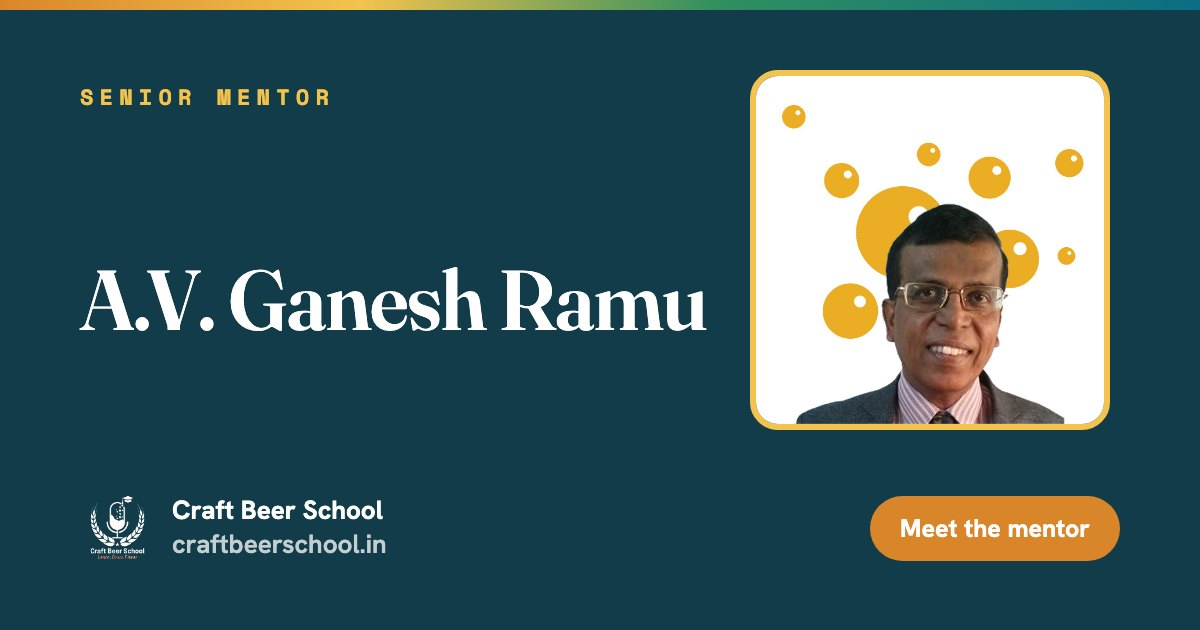
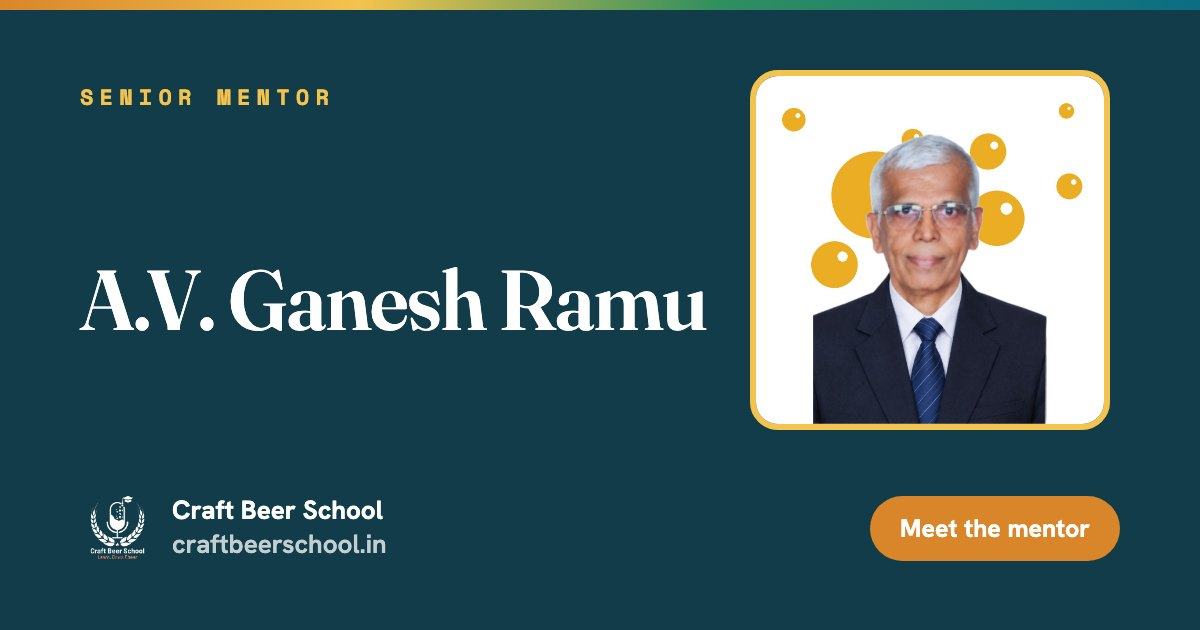
feat: Ganesh teaches Advanced Brewing Science; new portrait from his studio photo

Changed region(s): [[0.6475, 0.181, 0.925, 0.6937], [0.6475, 0.1508, 0.6783, 0.2111], [0.8633, 0.1508, 0.8942, 0.181]]

diff --git a/mr/mentor-anu-rao.html b/mr/mentor-anu-rao.html
@@ -84,7 +84,7 @@
 <div class="wrap">
 <div class="sec-head"><span class="eyebrow">तुमचे मेंटर</span><h2>बाकीच्या टीमला भेटा.</h2></div>
 <div class="grid-3">
-<article class="card mentor-card reveal"><a aria-hidden="true" href="../mentor-ganesh-ramu.html" tabindex="-1"><img alt="A.V. Ganesh Ramu" class="mentor-img" loading="lazy" src="../assets/ganesh-ramu-portrait.jpg"/></a><div class="card-body"><span class="cat">Senior Mentor · Master Brewer</span><h3><a href="../mentor-ganesh-ramu.html">A.V. Ganesh Ramu</a></h3><p>आमचे सर्वात ज्येष्ठ मेंटॉर. Institute of Brewing and Distilling चे Master Brewer, ज्यांना जर्मनी, यूके, न्यूझीलंड, सिंगापूर आणि भारतात ब्रूइंगचा 38 वर्षांचा अनुभव आहे.</p><div style="display:flex;flex-wrap:wrap;gap:.4rem 1.4rem"><a class="link-arrow" href="../mentor-ganesh-ramu.html">पूर्ण प्रोफाइल</a></div></div></article>
+<article class="card mentor-card reveal"><a aria-hidden="true" href="../mentor-ganesh-ramu.html" tabindex="-1"><img alt="A.V. Ganesh Ramu" class="mentor-img" loading="lazy" src="../assets/ganesh-ramu-portrait-2.jpg"/></a><div class="card-body"><span class="cat">Senior Mentor · Master Brewer</span><h3><a href="../mentor-ganesh-ramu.html">A.V. Ganesh Ramu</a></h3><p>आमचे सर्वात ज्येष्ठ मेंटॉर. Institute of Brewing and Distilling चे Master Brewer, ज्यांना जर्मनी, यूके, न्यूझीलंड, सिंगापूर आणि भारतात ब्रूइंगचा 38 वर्षांचा अनुभव आहे.</p><div style="display:flex;flex-wrap:wrap;gap:.4rem 1.4rem"><a class="link-arrow" href="../mentor-ganesh-ramu.html">पूर्ण प्रोफाइल</a></div></div></article>
 <article class="card mentor-card reveal"><a aria-hidden="true" href="mentor-ankur-napa.html" tabindex="-1"><img alt="Ankur Napa" class="mentor-img" loading="lazy" src="../assets/team3.jpg"/></a><div class="card-body"><span class="cat">Course Instructor · Master Brewer</span><h3><a href="mentor-ankur-napa.html">Ankur Napa</a></h3><p>United Breweries, SABMiller आणि AB InBev मध्ये R&amp;D मध्ये काम केलेले मास्टर ब्रुअर, ज्यांनी पुढे डेटा सायंटिस्ट म्हणून AB InBev च्या जागतिक बिझनेस युनिट्ससाठी AI आणि GenAI उभं केलं.</p><div style="display:flex;flex-wrap:wrap;gap:.4rem 1.4rem"><a class="link-arrow" href="mentor-ankur-napa.html">पूर्ण प्रोफाइल</a><a class="link-arrow" href="https://www.linkedin.com/in/ankur-napa/" rel="noopener" target="_blank">LinkedIn वर Ankur</a></div></div></article>
 <article class="card mentor-card reveal"><a aria-hidden="true" href="mentor-chatty-girija.html" tabindex="-1"><img alt="Chatty Girija" class="mentor-img" loading="lazy" src="../assets/team5.jpg"/></a><div class="card-body"><span class="cat">Beer Podcaster · Creative Strategist</span><h3><a href="mentor-chatty-girija.html">Chatty Girija</a></h3><p>जाहिरात क्षेत्रात 30+ वर्षं आणि क्राफ्ट बिअरची मनापासून आवड. प्रत्येक सेशनमध्ये बिअरच्या गोष्टी, ब्रँडिंग आणि व्यवसाय घेऊन येतात.</p><div style="display:flex;flex-wrap:wrap;gap:.4rem 1.4rem"><a class="link-arrow" href="mentor-chatty-girija.html">पूर्ण प्रोफाइल</a></div></div></article>
 <article class="card mentor-card reveal"><a aria-hidden="true" href="mentor-rahul-baliyan.html" tabindex="-1"><img alt="Rahul Baliyan" class="mentor-img" loading="lazy" src="../assets/rahul-baliyan-portrait.jpg"/></a><div class="card-body"><span class="cat">ब्रूइंग सायन्स इन्स्ट्रक्टर · दिल्ली आणि उत्तर भारत</span><h3><a href="mentor-rahul-baliyan.html">Rahul Baliyan</a></h3><p>Weihenstephan, TU Munich इथे प्रशिक्षण घेतलेले जर्मन-शैलीचे ब्रूमास्टर, फूड बायोटेक्नॉलॉजीमध्ये M.Tech. JW Marriott Chandigarh आणि भारतातील पहिली जर्मन ब्रुअरी Rockmann Beer Island साठी दहा वर्षं कन्सल्टंट ब्रूमास्टर, स्टार्ट-अप आणि एक्साइजपासून यील्ड आणि सोर्सिंगपर्यंत.</p><div style="display:flex;flex-wrap:wrap;gap:.4rem 1.4rem"><a class="link-arrow" href="mentor-rahul-baliyan.html">पूर्ण प्रोफाइल</a><a class="link-arrow" href="https://www.linkedin.com/in/rahul-baliyan-m-tech-40630a6b/" rel="noopener" target="_blank">LinkedIn वर Rahul</a></div></div></article>

diff --git a/mr/mentor-chatty-girija.html b/mr/mentor-chatty-girija.html
@@ -85,7 +85,7 @@
 <div class="wrap">
 <div class="sec-head"><span class="eyebrow">तुमचे मेंटर</span><h2>बाकीच्या टीमला भेटा.</h2></div>
 <div class="grid-3">
-<article class="card mentor-card reveal"><a aria-hidden="true" href="../mentor-ganesh-ramu.html" tabindex="-1"><img alt="A.V. Ganesh Ramu" class="mentor-img" loading="lazy" src="../assets/ganesh-ramu-portrait.jpg"/></a><div class="card-body"><span class="cat">Senior Mentor · Master Brewer</span><h3><a href="../mentor-ganesh-ramu.html">A.V. Ganesh Ramu</a></h3><p>आमचे सर्वात ज्येष्ठ मेंटॉर. Institute of Brewing and Distilling चे Master Brewer, ज्यांना जर्मनी, यूके, न्यूझीलंड, सिंगापूर आणि भारतात ब्रूइंगचा 38 वर्षांचा अनुभव आहे.</p><div style="display:flex;flex-wrap:wrap;gap:.4rem 1.4rem"><a class="link-arrow" href="../mentor-ganesh-ramu.html">पूर्ण प्रोफाइल</a></div></div></article>
+<article class="card mentor-card reveal"><a aria-hidden="true" href="../mentor-ganesh-ramu.html" tabindex="-1"><img alt="A.V. Ganesh Ramu" class="mentor-img" loading="lazy" src="../assets/ganesh-ramu-portrait-2.jpg"/></a><div class="card-body"><span class="cat">Senior Mentor · Master Brewer</span><h3><a href="../mentor-ganesh-ramu.html">A.V. Ganesh Ramu</a></h3><p>आमचे सर्वात ज्येष्ठ मेंटॉर. Institute of Brewing and Distilling चे Master Brewer, ज्यांना जर्मनी, यूके, न्यूझीलंड, सिंगापूर आणि भारतात ब्रूइंगचा 38 वर्षांचा अनुभव आहे.</p><div style="display:flex;flex-wrap:wrap;gap:.4rem 1.4rem"><a class="link-arrow" href="../mentor-ganesh-ramu.html">पूर्ण प्रोफाइल</a></div></div></article>
 <article class="card mentor-card reveal"><a aria-hidden="true" href="mentor-ankur-napa.html" tabindex="-1"><img alt="Ankur Napa" class="mentor-img" loading="lazy" src="../assets/team3.jpg"/></a><div class="card-body"><span class="cat">Course Instructor · Master Brewer</span><h3><a href="mentor-ankur-napa.html">Ankur Napa</a></h3><p>United Breweries, SABMiller आणि AB InBev मध्ये R&amp;D मध्ये काम केलेले मास्टर ब्रुअर, ज्यांनी पुढे डेटा सायंटिस्ट म्हणून AB InBev च्या जागतिक बिझनेस युनिट्ससाठी AI आणि GenAI उभं केलं.</p><div style="display:flex;flex-wrap:wrap;gap:.4rem 1.4rem"><a class="link-arrow" href="mentor-ankur-napa.html">पूर्ण प्रोफाइल</a><a class="link-arrow" href="https://www.linkedin.com/in/ankur-napa/" rel="noopener" target="_blank">LinkedIn वर Ankur</a></div></div></article>
 <article class="card mentor-card reveal"><a aria-hidden="true" href="mentor-anu-rao.html" tabindex="-1"><img alt="Anu Rao" class="mentor-img" loading="lazy" src="../assets/team4.jpg"/></a><div class="card-body"><span class="cat">स्ट्रॅटेजी आणि ऑपरेशन्स प्रमुख</span><h3><a href="mentor-anu-rao.html">Anu Rao</a></h3><p>सामाजिक जबाबदारी, शिक्षण आणि ऑपरेशन्समध्ये 15+ वर्षं, प्रत्येक बॅच धान्यापासून ग्लासपर्यंत सुरळीत चालेल याची काळजी घेतात.</p><div style="display:flex;flex-wrap:wrap;gap:.4rem 1.4rem"><a class="link-arrow" href="mentor-anu-rao.html">पूर्ण प्रोफाइल</a></div></div></article>
 <article class="card mentor-card reveal"><a aria-hidden="true" href="mentor-rahul-baliyan.html" tabindex="-1"><img alt="Rahul Baliyan" class="mentor-img" loading="lazy" src="../assets/rahul-baliyan-portrait.jpg"/></a><div class="card-body"><span class="cat">ब्रूइंग सायन्स इन्स्ट्रक्टर · दिल्ली आणि उत्तर भारत</span><h3><a href="mentor-rahul-baliyan.html">Rahul Baliyan</a></h3><p>Weihenstephan, TU Munich इथे प्रशिक्षण घेतलेले जर्मन-शैलीचे ब्रूमास्टर, फूड बायोटेक्नॉलॉजीमध्ये M.Tech. JW Marriott Chandigarh आणि भारतातील पहिली जर्मन ब्रुअरी Rockmann Beer Island साठी दहा वर्षं कन्सल्टंट ब्रूमास्टर, स्टार्ट-अप आणि एक्साइजपासून यील्ड आणि सोर्सिंगपर्यंत.</p><div style="display:flex;flex-wrap:wrap;gap:.4rem 1.4rem"><a class="link-arrow" href="mentor-rahul-baliyan.html">पूर्ण प्रोफाइल</a><a class="link-arrow" href="https://www.linkedin.com/in/rahul-baliyan-m-tech-40630a6b/" rel="noopener" target="_blank">LinkedIn वर Rahul</a></div></div></article>

diff --git a/kn/mentor-anu-rao.html b/kn/mentor-anu-rao.html
@@ -84,7 +84,7 @@
 <div class="wrap">
 <div class="sec-head"><span class="eyebrow">ನಿಮ್ಮ ಮೆಂಟರ್ಗಳು</span><h2>ತಂಡದ ಉಳಿದವರನ್ನು ಭೇಟಿಯಾಗಿ.</h2></div>
 <div class="grid-3">
-<article class="card mentor-card reveal"><a aria-hidden="true" href="../mentor-ganesh-ramu.html" tabindex="-1"><img alt="A.V. Ganesh Ramu" class="mentor-img" loading="lazy" src="../assets/ganesh-ramu-portrait.jpg"/></a><div class="card-body"><span class="cat">Senior Mentor · Master Brewer</span><h3><a href="../mentor-ganesh-ramu.html">A.V. Ganesh Ramu</a></h3><p>ನಮ್ಮ ಅತ್ಯಂತ ಹಿರಿಯ ಮೆಂಟರ್. Institute of Brewing and Distilling ನಿಂದ Master Brewer, ಜರ್ಮನಿ, ಯುಕೆ, ನ್ಯೂಜಿಲೆಂಡ್, ಸಿಂಗಾಪುರ ಮತ್ತು ಭಾರತದಲ್ಲಿ ಬ್ರೂಯಿಂಗ್ನಲ್ಲಿ 38 ವರ್ಷಗಳ ಅನುಭವ.</p><div style="display:flex;flex-wrap:wrap;gap:.4rem 1.4rem"><a class="link-arrow" href="../mentor-ganesh-ramu.html">ಪೂರ್ಣ ಪ್ರೊಫೈಲ್</a></div></div></article>
+<article class="card mentor-card reveal"><a aria-hidden="true" href="../mentor-ganesh-ramu.html" tabindex="-1"><img alt="A.V. Ganesh Ramu" class="mentor-img" loading="lazy" src="../assets/ganesh-ramu-portrait-2.jpg"/></a><div class="card-body"><span class="cat">Senior Mentor · Master Brewer</span><h3><a href="../mentor-ganesh-ramu.html">A.V. Ganesh Ramu</a></h3><p>ನಮ್ಮ ಅತ್ಯಂತ ಹಿರಿಯ ಮೆಂಟರ್. Institute of Brewing and Distilling ನಿಂದ Master Brewer, ಜರ್ಮನಿ, ಯುಕೆ, ನ್ಯೂಜಿಲೆಂಡ್, ಸಿಂಗಾಪುರ ಮತ್ತು ಭಾರತದಲ್ಲಿ ಬ್ರೂಯಿಂಗ್ನಲ್ಲಿ 38 ವರ್ಷಗಳ ಅನುಭವ.</p><div style="display:flex;flex-wrap:wrap;gap:.4rem 1.4rem"><a class="link-arrow" href="../mentor-ganesh-ramu.html">ಪೂರ್ಣ ಪ್ರೊಫೈಲ್</a></div></div></article>
 <article class="card mentor-card reveal"><a aria-hidden="true" href="mentor-ankur-napa.html" tabindex="-1"><img alt="Ankur Napa" class="mentor-img" loading="lazy" src="../assets/team3.jpg"/></a><div class="card-body"><span class="cat">ಕೋರ್ಸ್ ಬೋಧಕ · Master Brewer</span><h3><a href="mentor-ankur-napa.html">Ankur Napa</a></h3><p>United Breweries, SABMiller ಮತ್ತು AB InBev ನ R&amp;D ಯಲ್ಲಿ ಕೆಲಸ ಮಾಡಿದ Master Brewer, ನಂತರ ಡೇಟಾ ಸೈಂಟಿಸ್ಟ್ ಆಗಿ AB InBev ನ ಜಾಗತಿಕ ವ್ಯವಹಾರ ಘಟಕಗಳಿಗಾಗಿ AI ಮತ್ತು GenAI ಕಟ್ಟಿದವರು.</p><div style="display:flex;flex-wrap:wrap;gap:.4rem 1.4rem"><a class="link-arrow" href="mentor-ankur-napa.html">ಪೂರ್ಣ ಪ್ರೊಫೈಲ್</a><a class="link-arrow" href="https://www.linkedin.com/in/ankur-napa/" rel="noopener" target="_blank">LinkedIn ನಲ್ಲಿ Ankur</a></div></div></article>
 <article class="card mentor-card reveal"><a aria-hidden="true" href="mentor-chatty-girija.html" tabindex="-1"><img alt="Chatty Girija" class="mentor-img" loading="lazy" src="../assets/team5.jpg"/></a><div class="card-body"><span class="cat">ಬಿಯರ್ podcaster · ಸೃಜನಾತ್ಮಕ ತಂತ್ರಜ್ಞೆ</span><h3><a href="mentor-chatty-girija.html">Chatty Girija</a></h3><p>ಜಾಹೀರಾತು ಕ್ಷೇತ್ರದಲ್ಲಿ 30+ ವರ್ಷಗಳು ಮತ್ತು ಕ್ರಾಫ್ಟ್ ಬಿಯರ್ ಬಗ್ಗೆ ಆಳವಾದ ಒಲವು. ಪ್ರತಿ ಸೆಷನ್ಗೂ ಬಿಯರ್ನ ಕಥೆಗಳು, ಬ್ರ್ಯಾಂಡಿಂಗ್ ಮತ್ತು ವ್ಯವಹಾರವನ್ನು ತರುತ್ತಾರೆ.</p><div style="display:flex;flex-wrap:wrap;gap:.4rem 1.4rem"><a class="link-arrow" href="mentor-chatty-girija.html">ಪೂರ್ಣ ಪ್ರೊಫೈಲ್</a></div></div></article>
 <article class="card mentor-card reveal"><a aria-hidden="true" href="mentor-rahul-baliyan.html" tabindex="-1"><img alt="Rahul Baliyan" class="mentor-img" loading="lazy" src="../assets/rahul-baliyan-portrait.jpg"/></a><div class="card-body"><span class="cat">Brewing Science ಬೋಧಕರು · ದೆಹಲಿ &amp; ಉತ್ತರ ಭಾರತ</span><h3><a href="mentor-rahul-baliyan.html">Rahul Baliyan</a></h3><p>TU Munich ನ Weihenstephan ನಲ್ಲಿ ತರಬೇತಿ ಪಡೆದ ಜರ್ಮನ್ ಶೈಲಿಯ Brewmaster, ಆಹಾರ ಜೈವಿಕ ತಂತ್ರಜ್ಞಾನದಲ್ಲಿ M.Tech. ಪದವಿ. JW Marriott Chandigarh ಮತ್ತು ಭಾರತದ ಮೊದಲ ಜರ್ಮನ್ ಬ್ರೂವರಿ Rockmann Beer Island ಗೆ Consultant Brew Master ಆಗಿ ಒಂದು ದಶಕ, ಆರಂಭ ಮತ್ತು ಅಬಕಾರಿಯಿಂದ ಇಳುವರಿ ಮತ್ತು ಖರೀದಿಯವರೆಗೆ.</p><div style="display:flex;flex-wrap:wrap;gap:.4rem 1.4rem"><a class="link-arrow" href="mentor-rahul-baliyan.html">ಪೂರ್ಣ ಪ್ರೊಫೈಲ್</a><a class="link-arrow" href="https://www.linkedin.com/in/rahul-baliyan-m-tech-40630a6b/" rel="noopener" target="_blank">LinkedIn ನಲ್ಲಿ Rahul</a></div></div></article>

diff --git a/te/mentor-anu-rao.html b/te/mentor-anu-rao.html
@@ -84,7 +84,7 @@
 <div class="wrap">
 <div class="sec-head"><span class="eyebrow">మీ మెంటర్లు</span><h2>మిగతా టీమ్ను కలవండి.</h2></div>
 <div class="grid-3">
-<article class="card mentor-card reveal"><a aria-hidden="true" href="../mentor-ganesh-ramu.html" tabindex="-1"><img alt="A.V. Ganesh Ramu" class="mentor-img" loading="lazy" src="../assets/ganesh-ramu-portrait.jpg"/></a><div class="card-body"><span class="cat">Senior Mentor · Master Brewer</span><h3><a href="../mentor-ganesh-ramu.html">A.V. Ganesh Ramu</a></h3><p>మా అత్యంత సీనియర్ మెంటార్. Institute of Brewing and Distilling నుంచి Master Brewer, జర్మనీ, యూకే, న్యూజిలాండ్, సింగపూర్, భారతదేశాల్లో బ్రూయింగ్లో 38 ఏళ్ళ అనుభవం ఉంది.</p><div style="display:flex;flex-wrap:wrap;gap:.4rem 1.4rem"><a class="link-arrow" href="../mentor-ganesh-ramu.html">పూర్తి ప్రొఫైల్</a></div></div></article>
+<article class="card mentor-card reveal"><a aria-hidden="true" href="../mentor-ganesh-ramu.html" tabindex="-1"><img alt="A.V. Ganesh Ramu" class="mentor-img" loading="lazy" src="../assets/ganesh-ramu-portrait-2.jpg"/></a><div class="card-body"><span class="cat">Senior Mentor · Master Brewer</span><h3><a href="../mentor-ganesh-ramu.html">A.V. Ganesh Ramu</a></h3><p>మా అత్యంత సీనియర్ మెంటార్. Institute of Brewing and Distilling నుంచి Master Brewer, జర్మనీ, యూకే, న్యూజిలాండ్, సింగపూర్, భారతదేశాల్లో బ్రూయింగ్లో 38 ఏళ్ళ అనుభవం ఉంది.</p><div style="display:flex;flex-wrap:wrap;gap:.4rem 1.4rem"><a class="link-arrow" href="../mentor-ganesh-ramu.html">పూర్తి ప్రొఫైల్</a></div></div></article>
 <article class="card mentor-card reveal"><a aria-hidden="true" href="mentor-ankur-napa.html" tabindex="-1"><img alt="Ankur Napa" class="mentor-img" loading="lazy" src="../assets/team3.jpg"/></a><div class="card-body"><span class="cat">కోర్సు ఇన్స్ట్రక్టర్ · Master Brewer</span><h3><a href="mentor-ankur-napa.html">Ankur Napa</a></h3><p>United Breweries, SABMiller, AB InBev లలో R&amp;D విభాగంలో పనిచేసిన Master Brewer. ఆ తర్వాత డేటా సైంటిస్ట్గా AB InBev గ్లోబల్ బిజినెస్ యూనిట్ల కోసం AI, GenAI నిర్మించారు.</p><div style="display:flex;flex-wrap:wrap;gap:.4rem 1.4rem"><a class="link-arrow" href="mentor-ankur-napa.html">పూర్తి ప్రొఫైల్</a><a class="link-arrow" href="https://www.linkedin.com/in/ankur-napa/" rel="noopener" target="_blank">LinkedIn లో Ankur</a></div></div></article>
 <article class="card mentor-card reveal"><a aria-hidden="true" href="mentor-chatty-girija.html" tabindex="-1"><img alt="Chatty Girija" class="mentor-img" loading="lazy" src="../assets/team5.jpg"/></a><div class="card-body"><span class="cat">బీర్ పాడ్కాస్టర్ · క్రియేటివ్ స్ట్రాటజిస్ట్</span><h3><a href="mentor-chatty-girija.html">Chatty Girija</a></h3><p>అడ్వర్టైజింగ్లో 30+ ఏళ్ళు, క్రాఫ్ట్ బీర్ అంటే ఎంతో ఇష్టం. ప్రతి సెషన్కూ బీర్ కథలు, బ్రాండింగ్, వ్యాపారం తీసుకొస్తారు.</p><div style="display:flex;flex-wrap:wrap;gap:.4rem 1.4rem"><a class="link-arrow" href="mentor-chatty-girija.html">పూర్తి ప్రొఫైల్</a></div></div></article>
 <article class="card mentor-card reveal"><a aria-hidden="true" href="mentor-rahul-baliyan.html" tabindex="-1"><img alt="Rahul Baliyan" class="mentor-img" loading="lazy" src="../assets/rahul-baliyan-portrait.jpg"/></a><div class="card-body"><span class="cat">Brewing Science బోధకులు · ఢిల్లీ &amp; ఉత్తర భారతదేశం</span><h3><a href="mentor-rahul-baliyan.html">Rahul Baliyan</a></h3><p>Weihenstephan, TU Munichలో శిక్షణ పొందిన జర్మన్ స్టైల్ Brewmaster, Food Biotechnologyలో M.Tech. JW Marriott Chandigarh, భారతదేశపు మొదటి జర్మన్ బ్రూవరీ అయిన Rockmann Beer Island కోసం పదేళ్ళ పాటు Consultant Brew Master గా పనిచేశారు, స్టార్టప్, ఎక్సైజ్ నుంచి yield, సోర్సింగ్ వరకు.</p><div style="display:flex;flex-wrap:wrap;gap:.4rem 1.4rem"><a class="link-arrow" href="mentor-rahul-baliyan.html">పూర్తి ప్రొఫైల్</a><a class="link-arrow" href="https://www.linkedin.com/in/rahul-baliyan-m-tech-40630a6b/" rel="noopener" target="_blank">LinkedIn లో Rahul</a></div></div></article>

diff --git a/kn/mentor-chatty-girija.html b/kn/mentor-chatty-girija.html
@@ -85,7 +85,7 @@
 <div class="wrap">
 <div class="sec-head"><span class="eyebrow">ನಿಮ್ಮ ಮೆಂಟರ್ಗಳು</span><h2>ತಂಡದ ಉಳಿದವರನ್ನು ಭೇಟಿಯಾಗಿ.</h2></div>
 <div class="grid-3">
-<article class="card mentor-card reveal"><a aria-hidden="true" href="../mentor-ganesh-ramu.html" tabindex="-1"><img alt="A.V. Ganesh Ramu" class="mentor-img" loading="lazy" src="../assets/ganesh-ramu-portrait.jpg"/></a><div class="card-body"><span class="cat">Senior Mentor · Master Brewer</span><h3><a href="../mentor-ganesh-ramu.html">A.V. Ganesh Ramu</a></h3><p>ನಮ್ಮ ಅತ್ಯಂತ ಹಿರಿಯ ಮೆಂಟರ್. Institute of Brewing and Distilling ನಿಂದ Master Brewer, ಜರ್ಮನಿ, ಯುಕೆ, ನ್ಯೂಜಿಲೆಂಡ್, ಸಿಂಗಾಪುರ ಮತ್ತು ಭಾರತದಲ್ಲಿ ಬ್ರೂಯಿಂಗ್ನಲ್ಲಿ 38 ವರ್ಷಗಳ ಅನುಭವ.</p><div style="display:flex;flex-wrap:wrap;gap:.4rem 1.4rem"><a class="link-arrow" href="../mentor-ganesh-ramu.html">ಪೂರ್ಣ ಪ್ರೊಫೈಲ್</a></div></div></article>
+<article class="card mentor-card reveal"><a aria-hidden="true" href="../mentor-ganesh-ramu.html" tabindex="-1"><img alt="A.V. Ganesh Ramu" class="mentor-img" loading="lazy" src="../assets/ganesh-ramu-portrait-2.jpg"/></a><div class="card-body"><span class="cat">Senior Mentor · Master Brewer</span><h3><a href="../mentor-ganesh-ramu.html">A.V. Ganesh Ramu</a></h3><p>ನಮ್ಮ ಅತ್ಯಂತ ಹಿರಿಯ ಮೆಂಟರ್. Institute of Brewing and Distilling ನಿಂದ Master Brewer, ಜರ್ಮನಿ, ಯುಕೆ, ನ್ಯೂಜಿಲೆಂಡ್, ಸಿಂಗಾಪುರ ಮತ್ತು ಭಾರತದಲ್ಲಿ ಬ್ರೂಯಿಂಗ್ನಲ್ಲಿ 38 ವರ್ಷಗಳ ಅನುಭವ.</p><div style="display:flex;flex-wrap:wrap;gap:.4rem 1.4rem"><a class="link-arrow" href="../mentor-ganesh-ramu.html">ಪೂರ್ಣ ಪ್ರೊಫೈಲ್</a></div></div></article>
 <article class="card mentor-card reveal"><a aria-hidden="true" href="mentor-ankur-napa.html" tabindex="-1"><img alt="Ankur Napa" class="mentor-img" loading="lazy" src="../assets/team3.jpg"/></a><div class="card-body"><span class="cat">ಕೋರ್ಸ್ ಬೋಧಕ · Master Brewer</span><h3><a href="mentor-ankur-napa.html">Ankur Napa</a></h3><p>United Breweries, SABMiller ಮತ್ತು AB InBev ನ R&amp;D ಯಲ್ಲಿ ಕೆಲಸ ಮಾಡಿದ Master Brewer, ನಂತರ ಡೇಟಾ ಸೈಂಟಿಸ್ಟ್ ಆಗಿ AB InBev ನ ಜಾಗತಿಕ ವ್ಯವಹಾರ ಘಟಕಗಳಿಗಾಗಿ AI ಮತ್ತು GenAI ಕಟ್ಟಿದವರು.</p><div style="display:flex;flex-wrap:wrap;gap:.4rem 1.4rem"><a class="link-arrow" href="mentor-ankur-napa.html">ಪೂರ್ಣ ಪ್ರೊಫೈಲ್</a><a class="link-arrow" href="https://www.linkedin.com/in/ankur-napa/" rel="noopener" target="_blank">LinkedIn ನಲ್ಲಿ Ankur</a></div></div></article>
 <article class="card mentor-card reveal"><a aria-hidden="true" href="mentor-anu-rao.html" tabindex="-1"><img alt="Anu Rao" class="mentor-img" loading="lazy" src="../assets/team4.jpg"/></a><div class="card-body"><span class="cat">ಮುಖ್ಯಸ್ಥರು, ಸ್ಟ್ರಾಟಜಿ &amp; ಆಪರೇಷನ್ಸ್</span><h3><a href="mentor-anu-rao.html">Anu Rao</a></h3><p>ಸಾಮಾಜಿಕ ಜವಾಬ್ದಾರಿ, ಶಿಕ್ಷಣ ಮತ್ತು ಕಾರ್ಯಾಚರಣೆಯಲ್ಲಿ 15+ ವರ್ಷಗಳು, ಪ್ರತಿ ಬ್ಯಾಚ್ ಅನ್ನು ಧಾನ್ಯದಿಂದ ಗ್ಲಾಸ್ವರೆಗೆ ಸುಗಮವಾಗಿ ನಡೆಸುತ್ತಾರೆ.</p><div style="display:flex;flex-wrap:wrap;gap:.4rem 1.4rem"><a class="link-arrow" href="mentor-anu-rao.html">ಪೂರ್ಣ ಪ್ರೊಫೈಲ್</a></div></div></article>
 <article class="card mentor-card reveal"><a aria-hidden="true" href="mentor-rahul-baliyan.html" tabindex="-1"><img alt="Rahul Baliyan" class="mentor-img" loading="lazy" src="../assets/rahul-baliyan-portrait.jpg"/></a><div class="card-body"><span class="cat">Brewing Science ಬೋಧಕರು · ದೆಹಲಿ &amp; ಉತ್ತರ ಭಾರತ</span><h3><a href="mentor-rahul-baliyan.html">Rahul Baliyan</a></h3><p>TU Munich ನ Weihenstephan ನಲ್ಲಿ ತರಬೇತಿ ಪಡೆದ ಜರ್ಮನ್ ಶೈಲಿಯ Brewmaster, ಆಹಾರ ಜೈವಿಕ ತಂತ್ರಜ್ಞಾನದಲ್ಲಿ M.Tech. ಪದವಿ. JW Marriott Chandigarh ಮತ್ತು ಭಾರತದ ಮೊದಲ ಜರ್ಮನ್ ಬ್ರೂವರಿ Rockmann Beer Island ಗೆ Consultant Brew Master ಆಗಿ ಒಂದು ದಶಕ, ಆರಂಭ ಮತ್ತು ಅಬಕಾರಿಯಿಂದ ಇಳುವರಿ ಮತ್ತು ಖರೀದಿಯವರೆಗೆ.</p><div style="display:flex;flex-wrap:wrap;gap:.4rem 1.4rem"><a class="link-arrow" href="mentor-rahul-baliyan.html">ಪೂರ್ಣ ಪ್ರೊಫೈಲ್</a><a class="link-arrow" href="https://www.linkedin.com/in/rahul-baliyan-m-tech-40630a6b/" rel="noopener" target="_blank">LinkedIn ನಲ್ಲಿ Rahul</a></div></div></article>

diff --git a/te/mentor-chatty-girija.html b/te/mentor-chatty-girija.html
@@ -85,7 +85,7 @@
 <div class="wrap">
 <div class="sec-head"><span class="eyebrow">మీ మెంటర్లు</span><h2>మిగతా టీమ్ను కలవండి.</h2></div>
 <div class="grid-3">
-<article class="card mentor-card reveal"><a aria-hidden="true" href="../mentor-ganesh-ramu.html" tabindex="-1"><img alt="A.V. Ganesh Ramu" class="mentor-img" loading="lazy" src="../assets/ganesh-ramu-portrait.jpg"/></a><div class="card-body"><span class="cat">Senior Mentor · Master Brewer</span><h3><a href="../mentor-ganesh-ramu.html">A.V. Ganesh Ramu</a></h3><p>మా అత్యంత సీనియర్ మెంటార్. Institute of Brewing and Distilling నుంచి Master Brewer, జర్మనీ, యూకే, న్యూజిలాండ్, సింగపూర్, భారతదేశాల్లో బ్రూయింగ్లో 38 ఏళ్ళ అనుభవం ఉంది.</p><div style="display:flex;flex-wrap:wrap;gap:.4rem 1.4rem"><a class="link-arrow" href="../mentor-ganesh-ramu.html">పూర్తి ప్రొఫైల్</a></div></div></article>
+<article class="card mentor-card reveal"><a aria-hidden="true" href="../mentor-ganesh-ramu.html" tabindex="-1"><img alt="A.V. Ganesh Ramu" class="mentor-img" loading="lazy" src="../assets/ganesh-ramu-portrait-2.jpg"/></a><div class="card-body"><span class="cat">Senior Mentor · Master Brewer</span><h3><a href="../mentor-ganesh-ramu.html">A.V. Ganesh Ramu</a></h3><p>మా అత్యంత సీనియర్ మెంటార్. Institute of Brewing and Distilling నుంచి Master Brewer, జర్మనీ, యూకే, న్యూజిలాండ్, సింగపూర్, భారతదేశాల్లో బ్రూయింగ్లో 38 ఏళ్ళ అనుభవం ఉంది.</p><div style="display:flex;flex-wrap:wrap;gap:.4rem 1.4rem"><a class="link-arrow" href="../mentor-ganesh-ramu.html">పూర్తి ప్రొఫైల్</a></div></div></article>
 <article class="card mentor-card reveal"><a aria-hidden="true" href="mentor-ankur-napa.html" tabindex="-1"><img alt="Ankur Napa" class="mentor-img" loading="lazy" src="../assets/team3.jpg"/></a><div class="card-body"><span class="cat">కోర్సు ఇన్స్ట్రక్టర్ · Master Brewer</span><h3><a href="mentor-ankur-napa.html">Ankur Napa</a></h3><p>United Breweries, SABMiller, AB InBev లలో R&amp;D విభాగంలో పనిచేసిన Master Brewer. ఆ తర్వాత డేటా సైంటిస్ట్గా AB InBev గ్లోబల్ బిజినెస్ యూనిట్ల కోసం AI, GenAI నిర్మించారు.</p><div style="display:flex;flex-wrap:wrap;gap:.4rem 1.4rem"><a class="link-arrow" href="mentor-ankur-napa.html">పూర్తి ప్రొఫైల్</a><a class="link-arrow" href="https://www.linkedin.com/in/ankur-napa/" rel="noopener" target="_blank">LinkedIn లో Ankur</a></div></div></article>
 <article class="card mentor-card reveal"><a aria-hidden="true" href="mentor-anu-rao.html" tabindex="-1"><img alt="Anu Rao" class="mentor-img" loading="lazy" src="../assets/team4.jpg"/></a><div class="card-body"><span class="cat">హెడ్, స్ట్రాటజీ &amp; ఆపరేషన్స్</span><h3><a href="mentor-anu-rao.html">Anu Rao</a></h3><p>సామాజిక బాధ్యత, విద్య, ఆపరేషన్స్లో 15+ ఏళ్ళ అనుభవం. ధాన్యం నుంచి గ్లాస్ వరకు, ప్రతి బ్యాచ్ విద్యార్థులూ సాఫీగా సాగేలా చూసుకుంటారు.</p><div style="display:flex;flex-wrap:wrap;gap:.4rem 1.4rem"><a class="link-arrow" href="mentor-anu-rao.html">పూర్తి ప్రొఫైల్</a></div></div></article>
 <article class="card mentor-card reveal"><a aria-hidden="true" href="mentor-rahul-baliyan.html" tabindex="-1"><img alt="Rahul Baliyan" class="mentor-img" loading="lazy" src="../assets/rahul-baliyan-portrait.jpg"/></a><div class="card-body"><span class="cat">Brewing Science బోధకులు · ఢిల్లీ &amp; ఉత్తర భారతదేశం</span><h3><a href="mentor-rahul-baliyan.html">Rahul Baliyan</a></h3><p>Weihenstephan, TU Munichలో శిక్షణ పొందిన జర్మన్ స్టైల్ Brewmaster, Food Biotechnologyలో M.Tech. JW Marriott Chandigarh, భారతదేశపు మొదటి జర్మన్ బ్రూవరీ అయిన Rockmann Beer Island కోసం పదేళ్ళ పాటు Consultant Brew Master గా పనిచేశారు, స్టార్టప్, ఎక్సైజ్ నుంచి yield, సోర్సింగ్ వరకు.</p><div style="display:flex;flex-wrap:wrap;gap:.4rem 1.4rem"><a class="link-arrow" href="mentor-rahul-baliyan.html">పూర్తి ప్రొఫైల్</a><a class="link-arrow" href="https://www.linkedin.com/in/rahul-baliyan-m-tech-40630a6b/" rel="noopener" target="_blank">LinkedIn లో Rahul</a></div></div></article>

diff --git a/kn/mentor-ankur-napa.html b/kn/mentor-ankur-napa.html
@@ -87,7 +87,7 @@
 <div class="wrap">
 <div class="sec-head"><span class="eyebrow">ನಿಮ್ಮ ಮೆಂಟರ್ಗಳು</span><h2>ತಂಡದ ಉಳಿದವರನ್ನು ಭೇಟಿಯಾಗಿ.</h2></div>
 <div class="grid-3">
-<article class="card mentor-card reveal"><a aria-hidden="true" href="../mentor-ganesh-ramu.html" tabindex="-1"><img alt="A.V. Ganesh Ramu" class="mentor-img" loading="lazy" src="../assets/ganesh-ramu-portrait.jpg"/></a><div class="card-body"><span class="cat">Senior Mentor · Master Brewer</span><h3><a href="../mentor-ganesh-ramu.html">A.V. Ganesh Ramu</a></h3><p>ನಮ್ಮ ಅತ್ಯಂತ ಹಿರಿಯ ಮೆಂಟರ್. Institute of Brewing and Distilling ನಿಂದ Master Brewer, ಜರ್ಮನಿ, ಯುಕೆ, ನ್ಯೂಜಿಲೆಂಡ್, ಸಿಂಗಾಪುರ ಮತ್ತು ಭಾರತದಲ್ಲಿ ಬ್ರೂಯಿಂಗ್ನಲ್ಲಿ 38 ವರ್ಷಗಳ ಅನುಭವ.</p><div style="display:flex;flex-wrap:wrap;gap:.4rem 1.4rem"><a class="link-arrow" href="../mentor-ganesh-ramu.html">ಪೂರ್ಣ ಪ್ರೊಫೈಲ್</a></div></div></article>
+<article class="card mentor-card reveal"><a aria-hidden="true" href="../mentor-ganesh-ramu.html" tabindex="-1"><img alt="A.V. Ganesh Ramu" class="mentor-img" loading="lazy" src="../assets/ganesh-ramu-portrait-2.jpg"/></a><div class="card-body"><span class="cat">Senior Mentor · Master Brewer</span><h3><a href="../mentor-ganesh-ramu.html">A.V. Ganesh Ramu</a></h3><p>ನಮ್ಮ ಅತ್ಯಂತ ಹಿರಿಯ ಮೆಂಟರ್. Institute of Brewing and Distilling ನಿಂದ Master Brewer, ಜರ್ಮನಿ, ಯುಕೆ, ನ್ಯೂಜಿಲೆಂಡ್, ಸಿಂಗಾಪುರ ಮತ್ತು ಭಾರತದಲ್ಲಿ ಬ್ರೂಯಿಂಗ್ನಲ್ಲಿ 38 ವರ್ಷಗಳ ಅನುಭವ.</p><div style="display:flex;flex-wrap:wrap;gap:.4rem 1.4rem"><a class="link-arrow" href="../mentor-ganesh-ramu.html">ಪೂರ್ಣ ಪ್ರೊಫೈಲ್</a></div></div></article>
 <article class="card mentor-card reveal"><a aria-hidden="true" href="mentor-chatty-girija.html" tabindex="-1"><img alt="Chatty Girija" class="mentor-img" loading="lazy" src="../assets/team5.jpg"/></a><div class="card-body"><span class="cat">ಬಿಯರ್ podcaster · ಸೃಜನಾತ್ಮಕ ತಂತ್ರಜ್ಞೆ</span><h3><a href="mentor-chatty-girija.html">Chatty Girija</a></h3><p>ಜಾಹೀರಾತು ಕ್ಷೇತ್ರದಲ್ಲಿ 30+ ವರ್ಷಗಳು ಮತ್ತು ಕ್ರಾಫ್ಟ್ ಬಿಯರ್ ಬಗ್ಗೆ ಆಳವಾದ ಒಲವು. ಪ್ರತಿ ಸೆಷನ್ಗೂ ಬಿಯರ್ನ ಕಥೆಗಳು, ಬ್ರ್ಯಾಂಡಿಂಗ್ ಮತ್ತು ವ್ಯವಹಾರವನ್ನು ತರುತ್ತಾರೆ.</p><div style="display:flex;flex-wrap:wrap;gap:.4rem 1.4rem"><a class="link-arrow" href="mentor-chatty-girija.html">ಪೂರ್ಣ ಪ್ರೊಫೈಲ್</a></div></div></article>
 <article class="card mentor-card reveal"><a aria-hidden="true" href="mentor-anu-rao.html" tabindex="-1"><img alt="Anu Rao" class="mentor-img" loading="lazy" src="../assets/team4.jpg"/></a><div class="card-body"><span class="cat">ಮುಖ್ಯಸ್ಥರು, ಸ್ಟ್ರಾಟಜಿ &amp; ಆಪರೇಷನ್ಸ್</span><h3><a href="mentor-anu-rao.html">Anu Rao</a></h3><p>ಸಾಮಾಜಿಕ ಜವಾಬ್ದಾರಿ, ಶಿಕ್ಷಣ ಮತ್ತು ಕಾರ್ಯಾಚರಣೆಯಲ್ಲಿ 15+ ವರ್ಷಗಳು, ಪ್ರತಿ ಬ್ಯಾಚ್ ಅನ್ನು ಧಾನ್ಯದಿಂದ ಗ್ಲಾಸ್ವರೆಗೆ ಸುಗಮವಾಗಿ ನಡೆಸುತ್ತಾರೆ.</p><div style="display:flex;flex-wrap:wrap;gap:.4rem 1.4rem"><a class="link-arrow" href="mentor-anu-rao.html">ಪೂರ್ಣ ಪ್ರೊಫೈಲ್</a></div></div></article>
 <article class="card mentor-card reveal"><a aria-hidden="true" href="mentor-rahul-baliyan.html" tabindex="-1"><img alt="Rahul Baliyan" class="mentor-img" loading="lazy" src="../assets/rahul-baliyan-portrait.jpg"/></a><div class="card-body"><span class="cat">Brewing Science ಬೋಧಕರು · ದೆಹಲಿ &amp; ಉತ್ತರ ಭಾರತ</span><h3><a href="mentor-rahul-baliyan.html">Rahul Baliyan</a></h3><p>TU Munich ನ Weihenstephan ನಲ್ಲಿ ತರಬೇತಿ ಪಡೆದ ಜರ್ಮನ್ ಶೈಲಿಯ Brewmaster, ಆಹಾರ ಜೈವಿಕ ತಂತ್ರಜ್ಞಾನದಲ್ಲಿ M.Tech. ಪದವಿ. JW Marriott Chandigarh ಮತ್ತು ಭಾರತದ ಮೊದಲ ಜರ್ಮನ್ ಬ್ರೂವರಿ Rockmann Beer Island ಗೆ Consultant Brew Master ಆಗಿ ಒಂದು ದಶಕ, ಆರಂಭ ಮತ್ತು ಅಬಕಾರಿಯಿಂದ ಇಳುವರಿ ಮತ್ತು ಖರೀದಿಯವರೆಗೆ.</p><div style="display:flex;flex-wrap:wrap;gap:.4rem 1.4rem"><a class="link-arrow" href="mentor-rahul-baliyan.html">ಪೂರ್ಣ ಪ್ರೊಫೈಲ್</a><a class="link-arrow" href="https://www.linkedin.com/in/rahul-baliyan-m-tech-40630a6b/" rel="noopener" target="_blank">LinkedIn ನಲ್ಲಿ Rahul</a></div></div></article>

diff --git a/mr/mentor-ankur-napa.html b/mr/mentor-ankur-napa.html
@@ -87,7 +87,7 @@
 <div class="wrap">
 <div class="sec-head"><span class="eyebrow">तुमचे मेंटर</span><h2>बाकीच्या टीमला भेटा.</h2></div>
 <div class="grid-3">
-<article class="card mentor-card reveal"><a aria-hidden="true" href="../mentor-ganesh-ramu.html" tabindex="-1"><img alt="A.V. Ganesh Ramu" class="mentor-img" loading="lazy" src="../assets/ganesh-ramu-portrait.jpg"/></a><div class="card-body"><span class="cat">Senior Mentor · Master Brewer</span><h3><a href="../mentor-ganesh-ramu.html">A.V. Ganesh Ramu</a></h3><p>आमचे सर्वात ज्येष्ठ मेंटॉर. Institute of Brewing and Distilling चे Master Brewer, ज्यांना जर्मनी, यूके, न्यूझीलंड, सिंगापूर आणि भारतात ब्रूइंगचा 38 वर्षांचा अनुभव आहे.</p><div style="display:flex;flex-wrap:wrap;gap:.4rem 1.4rem"><a class="link-arrow" href="../mentor-ganesh-ramu.html">पूर्ण प्रोफाइल</a></div></div></article>
+<article class="card mentor-card reveal"><a aria-hidden="true" href="../mentor-ganesh-ramu.html" tabindex="-1"><img alt="A.V. Ganesh Ramu" class="mentor-img" loading="lazy" src="../assets/ganesh-ramu-portrait-2.jpg"/></a><div class="card-body"><span class="cat">Senior Mentor · Master Brewer</span><h3><a href="../mentor-ganesh-ramu.html">A.V. Ganesh Ramu</a></h3><p>आमचे सर्वात ज्येष्ठ मेंटॉर. Institute of Brewing and Distilling चे Master Brewer, ज्यांना जर्मनी, यूके, न्यूझीलंड, सिंगापूर आणि भारतात ब्रूइंगचा 38 वर्षांचा अनुभव आहे.</p><div style="display:flex;flex-wrap:wrap;gap:.4rem 1.4rem"><a class="link-arrow" href="../mentor-ganesh-ramu.html">पूर्ण प्रोफाइल</a></div></div></article>
 <article class="card mentor-card reveal"><a aria-hidden="true" href="mentor-chatty-girija.html" tabindex="-1"><img alt="Chatty Girija" class="mentor-img" loading="lazy" src="../assets/team5.jpg"/></a><div class="card-body"><span class="cat">Beer Podcaster · Creative Strategist</span><h3><a href="mentor-chatty-girija.html">Chatty Girija</a></h3><p>जाहिरात क्षेत्रात 30+ वर्षं आणि क्राफ्ट बिअरची मनापासून आवड. प्रत्येक सेशनमध्ये बिअरच्या गोष्टी, ब्रँडिंग आणि व्यवसाय घेऊन येतात.</p><div style="display:flex;flex-wrap:wrap;gap:.4rem 1.4rem"><a class="link-arrow" href="mentor-chatty-girija.html">पूर्ण प्रोफाइल</a></div></div></article>
 <article class="card mentor-card reveal"><a aria-hidden="true" href="mentor-anu-rao.html" tabindex="-1"><img alt="Anu Rao" class="mentor-img" loading="lazy" src="../assets/team4.jpg"/></a><div class="card-body"><span class="cat">स्ट्रॅटेजी आणि ऑपरेशन्स प्रमुख</span><h3><a href="mentor-anu-rao.html">Anu Rao</a></h3><p>सामाजिक जबाबदारी, शिक्षण आणि ऑपरेशन्समध्ये 15+ वर्षं, प्रत्येक बॅच धान्यापासून ग्लासपर्यंत सुरळीत चालेल याची काळजी घेतात.</p><div style="display:flex;flex-wrap:wrap;gap:.4rem 1.4rem"><a class="link-arrow" href="mentor-anu-rao.html">पूर्ण प्रोफाइल</a></div></div></article>
 <article class="card mentor-card reveal"><a aria-hidden="true" href="mentor-rahul-baliyan.html" tabindex="-1"><img alt="Rahul Baliyan" class="mentor-img" loading="lazy" src="../assets/rahul-baliyan-portrait.jpg"/></a><div class="card-body"><span class="cat">ब्रूइंग सायन्स इन्स्ट्रक्टर · दिल्ली आणि उत्तर भारत</span><h3><a href="mentor-rahul-baliyan.html">Rahul Baliyan</a></h3><p>Weihenstephan, TU Munich इथे प्रशिक्षण घेतलेले जर्मन-शैलीचे ब्रूमास्टर, फूड बायोटेक्नॉलॉजीमध्ये M.Tech. JW Marriott Chandigarh आणि भारतातील पहिली जर्मन ब्रुअरी Rockmann Beer Island साठी दहा वर्षं कन्सल्टंट ब्रूमास्टर, स्टार्ट-अप आणि एक्साइजपासून यील्ड आणि सोर्सिंगपर्यंत.</p><div style="display:flex;flex-wrap:wrap;gap:.4rem 1.4rem"><a class="link-arrow" href="mentor-rahul-baliyan.html">पूर्ण प्रोफाइल</a><a class="link-arrow" href="https://www.linkedin.com/in/rahul-baliyan-m-tech-40630a6b/" rel="noopener" target="_blank">LinkedIn वर Rahul</a></div></div></article>

diff --git a/te/mentor-ankur-napa.html b/te/mentor-ankur-napa.html
@@ -87,7 +87,7 @@
 <div class="wrap">
 <div class="sec-head"><span class="eyebrow">మీ మెంటర్లు</span><h2>మిగతా టీమ్ను కలవండి.</h2></div>
 <div class="grid-3">
-<article class="card mentor-card reveal"><a aria-hidden="true" href="../mentor-ganesh-ramu.html" tabindex="-1"><img alt="A.V. Ganesh Ramu" class="mentor-img" loading="lazy" src="../assets/ganesh-ramu-portrait.jpg"/></a><div class="card-body"><span class="cat">Senior Mentor · Master Brewer</span><h3><a href="../mentor-ganesh-ramu.html">A.V. Ganesh Ramu</a></h3><p>మా అత్యంత సీనియర్ మెంటార్. Institute of Brewing and Distilling నుంచి Master Brewer, జర్మనీ, యూకే, న్యూజిలాండ్, సింగపూర్, భారతదేశాల్లో బ్రూయింగ్లో 38 ఏళ్ళ అనుభవం ఉంది.</p><div style="display:flex;flex-wrap:wrap;gap:.4rem 1.4rem"><a class="link-arrow" href="../mentor-ganesh-ramu.html">పూర్తి ప్రొఫైల్</a></div></div></article>
+<article class="card mentor-card reveal"><a aria-hidden="true" href="../mentor-ganesh-ramu.html" tabindex="-1"><img alt="A.V. Ganesh Ramu" class="mentor-img" loading="lazy" src="../assets/ganesh-ramu-portrait-2.jpg"/></a><div class="card-body"><span class="cat">Senior Mentor · Master Brewer</span><h3><a href="../mentor-ganesh-ramu.html">A.V. Ganesh Ramu</a></h3><p>మా అత్యంత సీనియర్ మెంటార్. Institute of Brewing and Distilling నుంచి Master Brewer, జర్మనీ, యూకే, న్యూజిలాండ్, సింగపూర్, భారతదేశాల్లో బ్రూయింగ్లో 38 ఏళ్ళ అనుభవం ఉంది.</p><div style="display:flex;flex-wrap:wrap;gap:.4rem 1.4rem"><a class="link-arrow" href="../mentor-ganesh-ramu.html">పూర్తి ప్రొఫైల్</a></div></div></article>
 <article class="card mentor-card reveal"><a aria-hidden="true" href="mentor-chatty-girija.html" tabindex="-1"><img alt="Chatty Girija" class="mentor-img" loading="lazy" src="../assets/team5.jpg"/></a><div class="card-body"><span class="cat">బీర్ పాడ్కాస్టర్ · క్రియేటివ్ స్ట్రాటజిస్ట్</span><h3><a href="mentor-chatty-girija.html">Chatty Girija</a></h3><p>అడ్వర్టైజింగ్లో 30+ ఏళ్ళు, క్రాఫ్ట్ బీర్ అంటే ఎంతో ఇష్టం. ప్రతి సెషన్కూ బీర్ కథలు, బ్రాండింగ్, వ్యాపారం తీసుకొస్తారు.</p><div style="display:flex;flex-wrap:wrap;gap:.4rem 1.4rem"><a class="link-arrow" href="mentor-chatty-girija.html">పూర్తి ప్రొఫైల్</a></div></div></article>
 <article class="card mentor-card reveal"><a aria-hidden="true" href="mentor-anu-rao.html" tabindex="-1"><img alt="Anu Rao" class="mentor-img" loading="lazy" src="../assets/team4.jpg"/></a><div class="card-body"><span class="cat">హెడ్, స్ట్రాటజీ &amp; ఆపరేషన్స్</span><h3><a href="mentor-anu-rao.html">Anu Rao</a></h3><p>సామాజిక బాధ్యత, విద్య, ఆపరేషన్స్లో 15+ ఏళ్ళ అనుభవం. ధాన్యం నుంచి గ్లాస్ వరకు, ప్రతి బ్యాచ్ విద్యార్థులూ సాఫీగా సాగేలా చూసుకుంటారు.</p><div style="display:flex;flex-wrap:wrap;gap:.4rem 1.4rem"><a class="link-arrow" href="mentor-anu-rao.html">పూర్తి ప్రొఫైల్</a></div></div></article>
 <article class="card mentor-card reveal"><a aria-hidden="true" href="mentor-rahul-baliyan.html" tabindex="-1"><img alt="Rahul Baliyan" class="mentor-img" loading="lazy" src="../assets/rahul-baliyan-portrait.jpg"/></a><div class="card-body"><span class="cat">Brewing Science బోధకులు · ఢిల్లీ &amp; ఉత్తర భారతదేశం</span><h3><a href="mentor-rahul-baliyan.html">Rahul Baliyan</a></h3><p>Weihenstephan, TU Munichలో శిక్షణ పొందిన జర్మన్ స్టైల్ Brewmaster, Food Biotechnologyలో M.Tech. JW Marriott Chandigarh, భారతదేశపు మొదటి జర్మన్ బ్రూవరీ అయిన Rockmann Beer Island కోసం పదేళ్ళ పాటు Consultant Brew Master గా పనిచేశారు, స్టార్టప్, ఎక్సైజ్ నుంచి yield, సోర్సింగ్ వరకు.</p><div style="display:flex;flex-wrap:wrap;gap:.4rem 1.4rem"><a class="link-arrow" href="mentor-rahul-baliyan.html">పూర్తి ప్రొఫైల్</a><a class="link-arrow" href="https://www.linkedin.com/in/rahul-baliyan-m-tech-40630a6b/" rel="noopener" target="_blank">LinkedIn లో Rahul</a></div></div></article>

diff --git a/hi/mentor-anu-rao.html b/hi/mentor-anu-rao.html
@@ -84,7 +84,7 @@
 <div class="wrap">
 <div class="sec-head"><span class="eyebrow">आपके मेंटर</span><h2>बाकी टीम से मिलिए।</h2></div>
 <div class="grid-3">
-<article class="card mentor-card reveal"><a aria-hidden="true" href="../mentor-ganesh-ramu.html" tabindex="-1"><img alt="A.V. Ganesh Ramu" class="mentor-img" loading="lazy" src="../assets/ganesh-ramu-portrait.jpg"/></a><div class="card-body"><span class="cat">Senior Mentor · Master Brewer</span><h3><a href="../mentor-ganesh-ramu.html">A.V. Ganesh Ramu</a></h3><p>हमारे सबसे वरिष्ठ मेंटर। Institute of Brewing and Distilling से Master Brewer, जिन्हें जर्मनी, यूके, न्यूज़ीलैंड, सिंगापुर और भारत में ब्रूइंग का 38 साल का अनुभव है।</p><div style="display:flex;flex-wrap:wrap;gap:.4rem 1.4rem"><a class="link-arrow" href="../mentor-ganesh-ramu.html">पूरी प्रोफ़ाइल</a></div></div></article>
+<article class="card mentor-card reveal"><a aria-hidden="true" href="../mentor-ganesh-ramu.html" tabindex="-1"><img alt="A.V. Ganesh Ramu" class="mentor-img" loading="lazy" src="../assets/ganesh-ramu-portrait-2.jpg"/></a><div class="card-body"><span class="cat">Senior Mentor · Master Brewer</span><h3><a href="../mentor-ganesh-ramu.html">A.V. Ganesh Ramu</a></h3><p>हमारे सबसे वरिष्ठ मेंटर। Institute of Brewing and Distilling से Master Brewer, जिन्हें जर्मनी, यूके, न्यूज़ीलैंड, सिंगापुर और भारत में ब्रूइंग का 38 साल का अनुभव है।</p><div style="display:flex;flex-wrap:wrap;gap:.4rem 1.4rem"><a class="link-arrow" href="../mentor-ganesh-ramu.html">पूरी प्रोफ़ाइल</a></div></div></article>
 <article class="card mentor-card reveal"><a aria-hidden="true" href="mentor-ankur-napa.html" tabindex="-1"><img alt="Ankur Napa" class="mentor-img" loading="lazy" src="../assets/team3.jpg"/></a><div class="card-body"><span class="cat">Course Instructor · Master Brewer</span><h3><a href="mentor-ankur-napa.html">Ankur Napa</a></h3><p>United Breweries, SABMiller और AB InBev के R&amp;D से आए एक Master Brewer, जिन्होंने आगे चलकर डेटा साइंटिस्ट के रूप में AB InBev की ग्लोबल बिज़नेस यूनिट्स के लिए AI और GenAI बनाया।</p><div style="display:flex;flex-wrap:wrap;gap:.4rem 1.4rem"><a class="link-arrow" href="mentor-ankur-napa.html">पूरी प्रोफ़ाइल</a><a class="link-arrow" href="https://www.linkedin.com/in/ankur-napa/" rel="noopener" target="_blank">LinkedIn पर Ankur</a></div></div></article>
 <article class="card mentor-card reveal"><a aria-hidden="true" href="mentor-chatty-girija.html" tabindex="-1"><img alt="Chatty Girija" class="mentor-img" loading="lazy" src="../assets/team5.jpg"/></a><div class="card-body"><span class="cat">Beer Podcaster · Creative Strategist</span><h3><a href="mentor-chatty-girija.html">Chatty Girija</a></h3><p>विज्ञापन में 30+ साल और क्राफ़्ट बीयर के लिए गहरा लगाव। हर सेशन में बीयर की कहानियाँ, ब्रांडिंग और बिज़नेस लेकर आती हैं।</p><div style="display:flex;flex-wrap:wrap;gap:.4rem 1.4rem"><a class="link-arrow" href="mentor-chatty-girija.html">पूरी प्रोफ़ाइल</a></div></div></article>
 <article class="card mentor-card reveal"><a aria-hidden="true" href="mentor-rahul-baliyan.html" tabindex="-1"><img alt="Rahul Baliyan" class="mentor-img" loading="lazy" src="../assets/rahul-baliyan-portrait.jpg"/></a><div class="card-body"><span class="cat">ब्रूइंग साइंस इंस्ट्रक्टर · दिल्ली और उत्तर भारत</span><h3><a href="mentor-rahul-baliyan.html">Rahul Baliyan</a></h3><p>Weihenstephan, TU Munich से प्रशिक्षित जर्मन-स्टाइल Brewmaster, Food Biotechnology में M.Tech.। JW Marriott Chandigarh और भारत की पहली जर्मन ब्रुअरी Rockmann Beer Island के लिए दस साल तक Consultant Brew Master रहे, शुरुआत और एक्साइज़ से लेकर yield और सोर्सिंग तक।</p><div style="display:flex;flex-wrap:wrap;gap:.4rem 1.4rem"><a class="link-arrow" href="mentor-rahul-baliyan.html">पूरी प्रोफ़ाइल</a><a class="link-arrow" href="https://www.linkedin.com/in/rahul-baliyan-m-tech-40630a6b/" rel="noopener" target="_blank">LinkedIn पर Rahul</a></div></div></article>

diff --git a/hi/mentor-chatty-girija.html b/hi/mentor-chatty-girija.html
@@ -85,7 +85,7 @@
 <div class="wrap">
 <div class="sec-head"><span class="eyebrow">आपके मेंटर</span><h2>बाकी टीम से मिलिए।</h2></div>
 <div class="grid-3">
-<article class="card mentor-card reveal"><a aria-hidden="true" href="../mentor-ganesh-ramu.html" tabindex="-1"><img alt="A.V. Ganesh Ramu" class="mentor-img" loading="lazy" src="../assets/ganesh-ramu-portrait.jpg"/></a><div class="card-body"><span class="cat">Senior Mentor · Master Brewer</span><h3><a href="../mentor-ganesh-ramu.html">A.V. Ganesh Ramu</a></h3><p>हमारे सबसे वरिष्ठ मेंटर। Institute of Brewing and Distilling से Master Brewer, जिन्हें जर्मनी, यूके, न्यूज़ीलैंड, सिंगापुर और भारत में ब्रूइंग का 38 साल का अनुभव है।</p><div style="display:flex;flex-wrap:wrap;gap:.4rem 1.4rem"><a class="link-arrow" href="../mentor-ganesh-ramu.html">पूरी प्रोफ़ाइल</a></div></div></article>
+<article class="card mentor-card reveal"><a aria-hidden="true" href="../mentor-ganesh-ramu.html" tabindex="-1"><img alt="A.V. Ganesh Ramu" class="mentor-img" loading="lazy" src="../assets/ganesh-ramu-portrait-2.jpg"/></a><div class="card-body"><span class="cat">Senior Mentor · Master Brewer</span><h3><a href="../mentor-ganesh-ramu.html">A.V. Ganesh Ramu</a></h3><p>हमारे सबसे वरिष्ठ मेंटर। Institute of Brewing and Distilling से Master Brewer, जिन्हें जर्मनी, यूके, न्यूज़ीलैंड, सिंगापुर और भारत में ब्रूइंग का 38 साल का अनुभव है।</p><div style="display:flex;flex-wrap:wrap;gap:.4rem 1.4rem"><a class="link-arrow" href="../mentor-ganesh-ramu.html">पूरी प्रोफ़ाइल</a></div></div></article>
 <article class="card mentor-card reveal"><a aria-hidden="true" href="mentor-ankur-napa.html" tabindex="-1"><img alt="Ankur Napa" class="mentor-img" loading="lazy" src="../assets/team3.jpg"/></a><div class="card-body"><span class="cat">Course Instructor · Master Brewer</span><h3><a href="mentor-ankur-napa.html">Ankur Napa</a></h3><p>United Breweries, SABMiller और AB InBev के R&amp;D से आए एक Master Brewer, जिन्होंने आगे चलकर डेटा साइंटिस्ट के रूप में AB InBev की ग्लोबल बिज़नेस यूनिट्स के लिए AI और GenAI बनाया।</p><div style="display:flex;flex-wrap:wrap;gap:.4rem 1.4rem"><a class="link-arrow" href="mentor-ankur-napa.html">पूरी प्रोफ़ाइल</a><a class="link-arrow" href="https://www.linkedin.com/in/ankur-napa/" rel="noopener" target="_blank">LinkedIn पर Ankur</a></div></div></article>
 <article class="card mentor-card reveal"><a aria-hidden="true" href="mentor-anu-rao.html" tabindex="-1"><img alt="Anu Rao" class="mentor-img" loading="lazy" src="../assets/team4.jpg"/></a><div class="card-body"><span class="cat">स्ट्रैटेजी और ऑपरेशंस प्रमुख</span><h3><a href="mentor-anu-rao.html">Anu Rao</a></h3><p>सामाजिक ज़िम्मेदारी, शिक्षा और ऑपरेशंस में 15+ साल, हर बैच को अनाज से गिलास तक सुचारु रूप से चलाती हैं।</p><div style="display:flex;flex-wrap:wrap;gap:.4rem 1.4rem"><a class="link-arrow" href="mentor-anu-rao.html">पूरी प्रोफ़ाइल</a></div></div></article>
 <article class="card mentor-card reveal"><a aria-hidden="true" href="mentor-rahul-baliyan.html" tabindex="-1"><img alt="Rahul Baliyan" class="mentor-img" loading="lazy" src="../assets/rahul-baliyan-portrait.jpg"/></a><div class="card-body"><span class="cat">ब्रूइंग साइंस इंस्ट्रक्टर · दिल्ली और उत्तर भारत</span><h3><a href="mentor-rahul-baliyan.html">Rahul Baliyan</a></h3><p>Weihenstephan, TU Munich से प्रशिक्षित जर्मन-स्टाइल Brewmaster, Food Biotechnology में M.Tech.। JW Marriott Chandigarh और भारत की पहली जर्मन ब्रुअरी Rockmann Beer Island के लिए दस साल तक Consultant Brew Master रहे, शुरुआत और एक्साइज़ से लेकर yield और सोर्सिंग तक।</p><div style="display:flex;flex-wrap:wrap;gap:.4rem 1.4rem"><a class="link-arrow" href="mentor-rahul-baliyan.html">पूरी प्रोफ़ाइल</a><a class="link-arrow" href="https://www.linkedin.com/in/rahul-baliyan-m-tech-40630a6b/" rel="noopener" target="_blank">LinkedIn पर Rahul</a></div></div></article>

diff --git a/kn/about.html b/kn/about.html
@@ -99,7 +99,7 @@
 <div class="wrap">
 <div class="sec-head center"><span class="eyebrow">ನಿಮ್ಮ ಮೆಂಟರ್ಗಳು</span><h2>ಬ್ರೂ ಮಾಡುವವರೇ ಕಲಿಸುತ್ತಾರೆ.</h2></div>
 <div class="grid-2">
-<article class="card mentor-card reveal"><a aria-hidden="true" href="../mentor-ganesh-ramu.html" tabindex="-1"><img alt="A.V. Ganesh Ramu" class="mentor-img" loading="lazy" src="../assets/ganesh-ramu-portrait.jpg"/></a><div class="card-body"><span class="cat">Senior Mentor · Master Brewer</span><h3><a href="../mentor-ganesh-ramu.html">A.V. Ganesh Ramu</a></h3><p>ನಮ್ಮ ಅತ್ಯಂತ ಹಿರಿಯ ಮೆಂಟರ್. Institute of Brewing and Distilling ನಿಂದ Master Brewer, ಜರ್ಮನಿ, ಯುಕೆ, ನ್ಯೂಜಿಲೆಂಡ್, ಸಿಂಗಾಪುರ ಮತ್ತು ಭಾರತದಲ್ಲಿ ಬ್ರೂಯಿಂಗ್ನಲ್ಲಿ 38 ವರ್ಷಗಳ ಅನುಭವ.</p><div style="display:flex;flex-wrap:wrap;gap:.4rem 1.4rem"><a class="link-arrow" href="../mentor-ganesh-ramu.html">ಪೂರ್ಣ ಪ್ರೊಫೈಲ್</a></div></div></article>
+<article class="card mentor-card reveal"><a aria-hidden="true" href="../mentor-ganesh-ramu.html" tabindex="-1"><img alt="A.V. Ganesh Ramu" class="mentor-img" loading="lazy" src="../assets/ganesh-ramu-portrait-2.jpg"/></a><div class="card-body"><span class="cat">Senior Mentor · Master Brewer</span><h3><a href="../mentor-ganesh-ramu.html">A.V. Ganesh Ramu</a></h3><p>ನಮ್ಮ ಅತ್ಯಂತ ಹಿರಿಯ ಮೆಂಟರ್. Institute of Brewing and Distilling ನಿಂದ Master Brewer, ಜರ್ಮನಿ, ಯುಕೆ, ನ್ಯೂಜಿಲೆಂಡ್, ಸಿಂಗಾಪುರ ಮತ್ತು ಭಾರತದಲ್ಲಿ ಬ್ರೂಯಿಂಗ್ನಲ್ಲಿ 38 ವರ್ಷಗಳ ಅನುಭವ.</p><div style="display:flex;flex-wrap:wrap;gap:.4rem 1.4rem"><a class="link-arrow" href="../mentor-ganesh-ramu.html">ಪೂರ್ಣ ಪ್ರೊಫೈಲ್</a></div></div></article>
 <article class="card mentor-card reveal"><a aria-hidden="true" href="mentor-ankur-napa.html" tabindex="-1"><img alt="Ankur Napa" class="mentor-img" loading="lazy" src="../assets/team3.jpg"/></a><div class="card-body"><span class="cat">ಕೋರ್ಸ್ ಬೋಧಕ · Master Brewer</span><h3><a href="mentor-ankur-napa.html">Ankur Napa</a></h3><p>United Breweries, SABMiller ಮತ್ತು AB InBev ನ R&amp;D ಯಲ್ಲಿ ಕೆಲಸ ಮಾಡಿದ Master Brewer, ನಂತರ ಡೇಟಾ ಸೈಂಟಿಸ್ಟ್ ಆಗಿ AB InBev ನ ಜಾಗತಿಕ ವ್ಯವಹಾರ ಘಟಕಗಳಿಗಾಗಿ AI ಮತ್ತು GenAI ಕಟ್ಟಿದವರು.</p><div style="display:flex;flex-wrap:wrap;gap:.4rem 1.4rem"><a class="link-arrow" href="mentor-ankur-napa.html">ಪೂರ್ಣ ಪ್ರೊಫೈಲ್</a><a class="link-arrow" href="https://www.linkedin.com/in/ankur-napa/" rel="noopener" target="_blank">LinkedIn ನಲ್ಲಿ Ankur</a></div></div></article>
 <article class="card mentor-card reveal"><a aria-hidden="true" href="mentor-chatty-girija.html" tabindex="-1"><img alt="Chatty Girija" class="mentor-img" loading="lazy" src="../assets/team5.jpg"/></a><div class="card-body"><span class="cat">ಬಿಯರ್ podcaster · ಸೃಜನಾತ್ಮಕ ತಂತ್ರಜ್ಞೆ</span><h3><a href="mentor-chatty-girija.html">Chatty Girija</a></h3><p>ಜಾಹೀರಾತು ಕ್ಷೇತ್ರದಲ್ಲಿ 30+ ವರ್ಷಗಳು ಮತ್ತು ಕ್ರಾಫ್ಟ್ ಬಿಯರ್ ಬಗ್ಗೆ ಆಳವಾದ ಒಲವು. ಪ್ರತಿ ಸೆಷನ್ಗೂ ಬಿಯರ್ನ ಕಥೆಗಳು, ಬ್ರ್ಯಾಂಡಿಂಗ್ ಮತ್ತು ವ್ಯವಹಾರವನ್ನು ತರುತ್ತಾರೆ.</p><div style="display:flex;flex-wrap:wrap;gap:.4rem 1.4rem"><a class="link-arrow" href="mentor-chatty-girija.html">ಪೂರ್ಣ ಪ್ರೊಫೈಲ್</a></div></div></article>
 <article class="card mentor-card reveal"><a aria-hidden="true" href="mentor-anu-rao.html" tabindex="-1"><img alt="Anu Rao" class="mentor-img" loading="lazy" src="../assets/team4.jpg"/></a><div class="card-body"><span class="cat">ಮುಖ್ಯಸ್ಥರು, ಸ್ಟ್ರಾಟಜಿ &amp; ಆಪರೇಷನ್ಸ್</span><h3><a href="mentor-anu-rao.html">Anu Rao</a></h3><p>ಸಾಮಾಜಿಕ ಜವಾಬ್ದಾರಿ, ಶಿಕ್ಷಣ ಮತ್ತು ಕಾರ್ಯಾಚರಣೆಯಲ್ಲಿ 15+ ವರ್ಷಗಳು, ಪ್ರತಿ ಬ್ಯಾಚ್ ಅನ್ನು ಧಾನ್ಯದಿಂದ ಗ್ಲಾಸ್ವರೆಗೆ ಸುಗಮವಾಗಿ ನಡೆಸುತ್ತಾರೆ.</p><div style="display:flex;flex-wrap:wrap;gap:.4rem 1.4rem"><a class="link-arrow" href="mentor-anu-rao.html">ಪೂರ್ಣ ಪ್ರೊಫೈಲ್</a></div></div></article>
